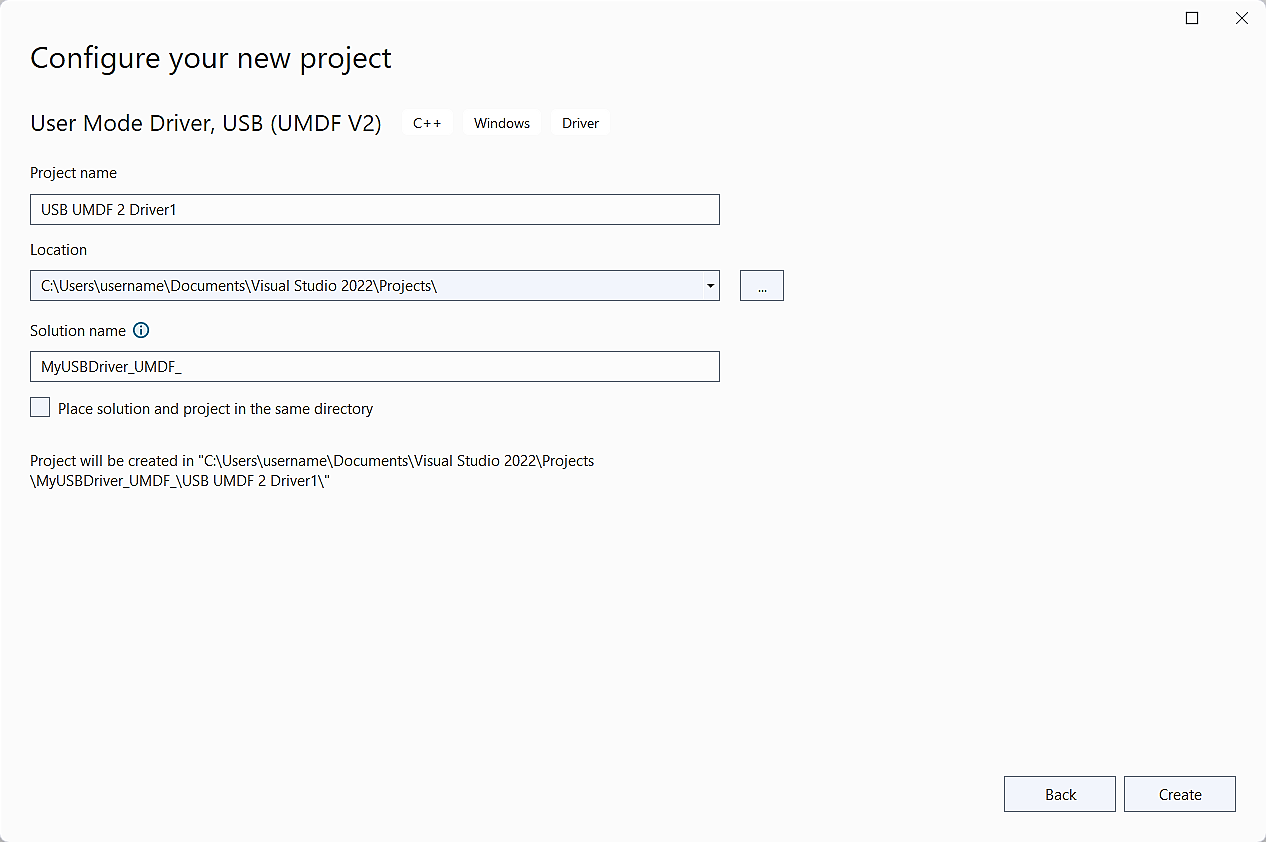
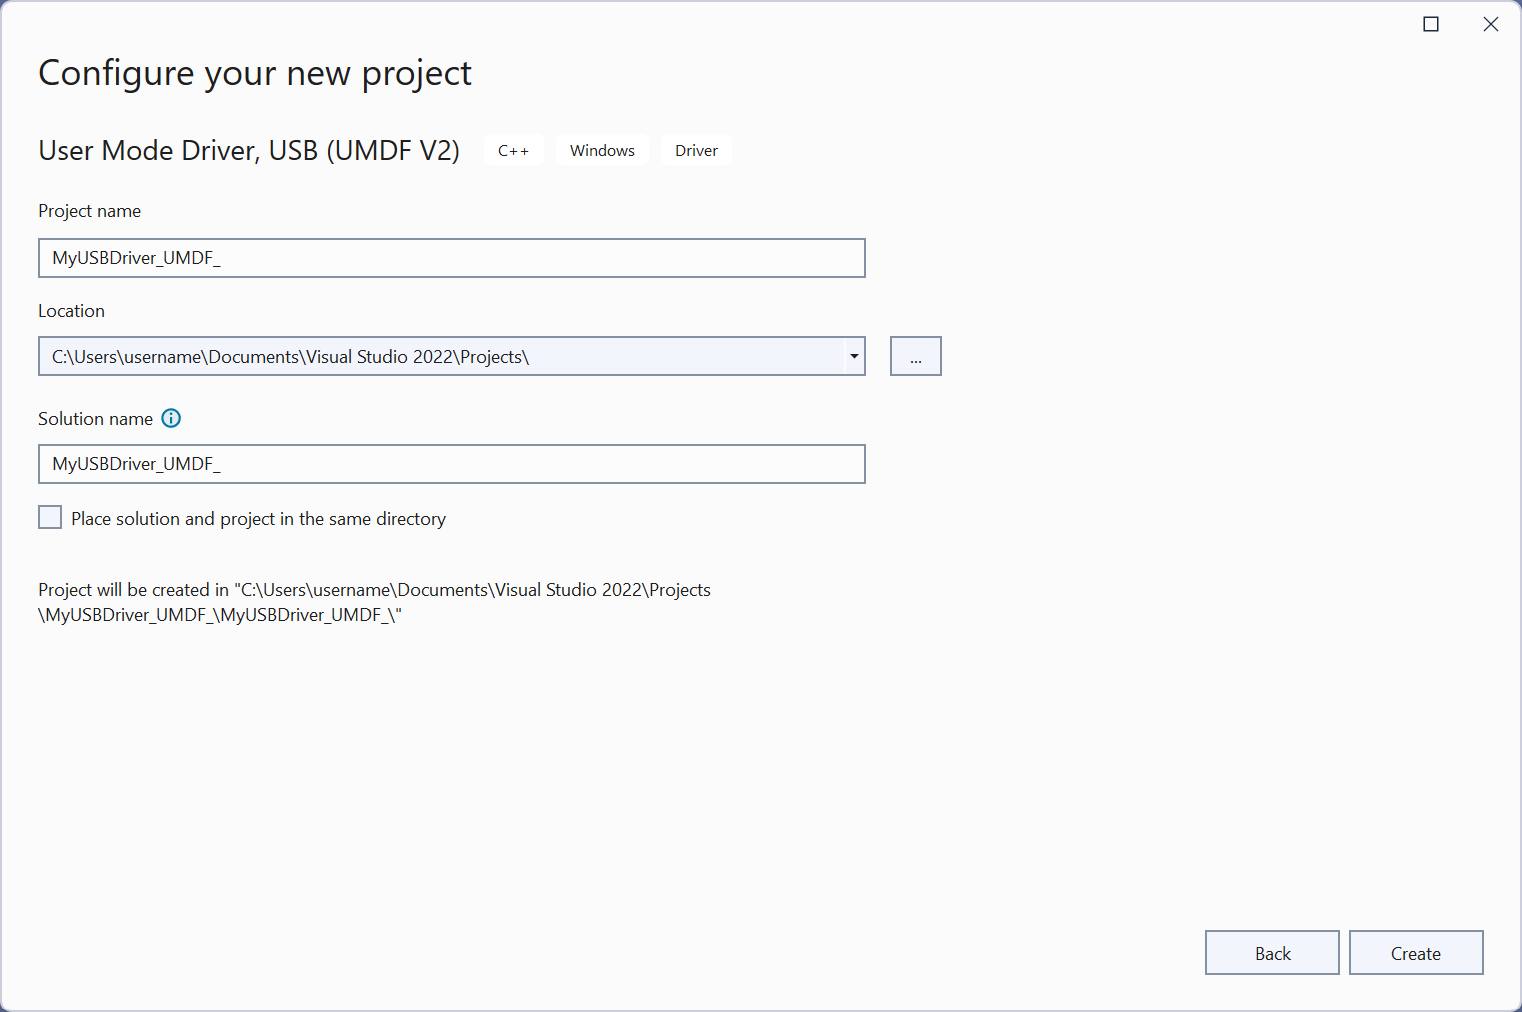
Updates

diff --git a/windows-driver-docs-pr/usbcon/implement-driver-entry-for-a-usb-driver--umdf-.md b/windows-driver-docs-pr/usbcon/implement-driver-entry-for-a-usb-driver--umdf-.md
@@ -1,7 +1,7 @@
 ---
 title: How to write your first USB client driver (UMDF)
 description: Use the USB User Mode Driver template provided with Microsoft Visual Studio to write a UMDF client driver.
-ms.date: 10/17/2023
+ms.date: 10/19/2023
 ---
 
 # How to write your first USB client driver (UMDF)
@@ -51,11 +51,13 @@ If you're new to USB driver development, use the [OSR USB FX2 learning kit](http
 
 ## Instructions
 
-### Step 1: Generate the UMDF driver code by using the Visual Studio 2022 USB driver template
+Follow these steps to create a USB UMDF V2 driver by using the Visual Studio 2022 driver template.
 
-For instructions about generating UMDF driver code, see [Writing a UMDF driver based on a template](../gettingstarted/writing-a-umdf-driver-based-on-a-template.md).
+### Step 1: Generate the driver code
 
-### For USB-specific code, select the following options in Visual Studio 2019
+For details about writing UMDF driver code, see [Writing a UMDF driver based on a template](../gettingstarted/writing-a-umdf-driver-based-on-a-template.md).
+
+### For USB-specific code, select the following options in Visual Studio 2022
 
 1. In the **New Project** dialog box, in the search box at the top, type **USB.**
 1. In the middle pane, select **User Mode Driver, USB (UMDF V2)**.
@@ -78,47 +80,23 @@ This article assumes that the name of the project is "MyUSBDriver_UMDF_". It con
 | Trace.h | Defines the device interface GUID. It also declares tracing functions and macros. |
 | *\<Project name>*.inf | INF file that is required to install the client driver on the target computer. |
 
-### Step 2: Modify the INF file to add information about your device
+### Step 2: Add information about your device
 
-Before you build the driver, you must modify the template INF file with information about your device, specifically the hardware ID string.
+Before you build the driver, you must add information about your device, specifically the hardware ID. To provide the hardware ID:
 
-### To provide the hardware ID string
+1. In the **Solution Explorer** window, right-click **MyUSBDriver_UMDF_**, and choose **Properties**.
+1. In the **MyUSBDriver_UMDF_ Property Pages** window, go to **Configuration Properties > Driver Install > Deployment**, as shown here.
+    :::image type="content" source="images/umdf-driver-property-pages.png" alt-text="Screenshot of the Visual Studio 2022 property pages window.":::
+1. Check **Remove previous driver versions before deployment**.
+1. For **Target Device Name**, select the name of the computer that you configured for testing and debugging.
+1. Select **Hardware ID Driver Update**, and enter the hardware ID for your driver. In this exercise, the hardware ID is *Root\MyUSBDriver_UMDF_*. Select **OK**.
 
-1. Attach your USB device to your host computer and let Windows enumerate the device.
-1. Open **Device Manager** and open properties for your device.
-1. On the **Details** tab, select **Hardware Ids** under **Property.**
+> [!NOTE]
+> In this exercise, the hardware ID does not identify a real piece of hardware. It identifies an imaginary device that will be given a place in the device tree as a child of the root node. For real hardware, do not select **Hardware ID Driver Update**. Instead, select **Install and Verify**. You can see the hardware ID in your driver's information (INF) file. In the **Solution Explorer** window, go to **MyUSBDriver_UMDF_ > Driver Files**, and double-click MyUSBDriver_UMDF_.inf. The hardware ID is under [Standard.NT$ARCH$].
 
-    The hardware ID for the device is displayed in the list box. Right-click and copy the hardware ID string.
+All UMDF-based USB client drivers require two Microsoft-provided drivers, the reflector and WinUSB.
 
-1. In **Solution Explorer**, expand **Driver Files**, and open the INF.
-1. Replace the following your hardware ID string.
-
-    ```inf
-    [Standard.NT$ARCH$]
-    %DeviceName%=MyDevice_Install, USB\VID_vvvv&PID_pppp
-    ```
-
-Notice the **AddReg** entries in the driver's information (INF) file.
-
-```inf
-[CoInstallers_AddReg]
-HKR,,CoInstallers32,0x00010008,"WudfCoinstaller.dll"
-HKR,,CoInstallers32,0x00010008,"WudfUpdate_01011.dll"
-HKR,,CoInstallers32,0x00010008,"WdfCoInstaller01011.dll,WdfCoInstaller"
-HKR,,CoInstallers32,0x00010008,"WinUsbCoinstaller2.dll"
-```
-
-- WudfCoinstaller.dll (configuration co-installer)
-- WUDFUpdate_*\<version>*.dll (redistributable co-installer)
-- Wdfcoinstaller *\<version>*.dll (co-installers for KMDF)
-- Winusbcoinstaller2.dll ((co-installers for Winusb.sys)
-- MyUSBDriver_UMDF_.dll (client driver module)
-
-If your INF AddReg directive references the UMDF redistributable co-installer (WUDFUpdate_*\<version>*.dll), you must not make a reference to the configuration co-installer (WUDFCoInstaller.dll). Referencing both co-installers in the INF leads to installation errors.
-
-All UMDF-based USB client drivers require two Microsoft-provided drivers: the reflector and WinUSB.
-
-- Reflector—If your driver gets loaded successfully, the reflector is loaded as the top-most driver in the kernel-mode stack. The reflector must be the top driver in the kernel mode stack. To meet this requirement, the template's INF file specifies the reflector as a service and WinUSB as a lower-filter driver in the INF:
+- **Reflector**: If your driver gets loaded successfully, the reflector is loaded as the top-most driver in the kernel-mode stack. The reflector must be the top driver in the kernel mode stack. To meet this requirement, the template's INF file specifies the reflector as a service and WinUSB as a lower-filter driver in the INF:
 
     ```inf
     [MyDevice_Install.NT.Services]
@@ -126,17 +104,17 @@ All UMDF-based USB client drivers require two Microsoft-provided drivers: the re
     AddService=WinUsb,0x000001f8,WinUsb_ServiceInstall  ; this service is installed because its a filter.
     ```
 
-- WinUSB—The installation package must contain coinstallers for Winusb.sys because for the client driver, WinUSB is the gateway to the kernel-mode USB driver stack. Another component that gets loaded is a user-mode DLL, named WinUsb.dll, in the client driver's host process (Wudfhost.exe). Winusb.dll exposes [WinUSB Functions](using-winusb-api-to-communicate-with-a-usb-device.md) that simplify the communication process between the client driver and WinUSB.
+- **WinUSB**: The installation package must contain coinstallers for Winusb.sys because for the client driver, WinUSB is the gateway to the kernel-mode USB driver stack. Another component that gets loaded is a user-mode DLL, named WinUsb.dll, in the client driver's host process (Wudfhost.exe). Winusb.dll exposes [WinUSB Functions](using-winusb-api-to-communicate-with-a-usb-device.md) that simplify the communication process between the client driver and WinUSB.
 
 ### Step 3: Build the USB client driver code
 
 To build your driver:
 
-1. Open the driver project or solution in Visual Studio 2019.
+1. Open the driver project or solution in Visual Studio 2022.
 1. Right-click the solution in the **Solution Explorer** and select **Configuration Manager**.
-1. From the **Configuration Manager**, select your **Active Solution Configuration** (for example, **Debug** or **Release**) and your **Active Solution Platform** (for example, **Win32**) that correspond to the type of build you're interested in.
+1. From the **Configuration Manager**, select your **Active Solution Configuration** (for example, **Debug** or **Release**) and your **Active Solution Platform** (for example, **x64**) that correspond to the type of build you're interested in.
 1. Verify that your device interface GUID is accurate throughout the project.
-    - The device interface GUID is defined in Trace.h and is referenced from `MyUSBDriverUMDFCreateDevice` in Device.c. When you create your project with the name "MyUSBDriver_UMDF_", Visual Studio 2019 defines the device interface GUID with the name `GUID_DEVINTERFACE_MyUSBDriver_UMDF_` but calls `WdfDeviceCreateDeviceInterface` with the incorrect parameter "GUID_DEVINTERFACE_MyUSBDriverUMDF". Replace the incorrect parameter with the name defined in Trace.h to ensure that the driver builds properly.
+    - The device interface GUID is defined in Trace.h and is referenced from `MyUSBDriverUMDFCreateDevice` in Device.c. When you create your project with the name "MyUSBDriver_UMDF_", Visual Studio 2022 defines the device interface GUID with the name `GUID_DEVINTERFACE_MyUSBDriver_UMDF_` but calls `WdfDeviceCreateDeviceInterface` with the incorrect parameter `&GUID_DEVINTERFACE_MyUSBDriverUMDF`. Replace the incorrect parameter with the name defined in Trace.h to ensure that the driver builds properly.
 1. From the **Build** menu, select **Build Solution**.
 
 For more information, see [Building a Driver](../develop/building-a-driver.md).
@@ -153,7 +131,7 @@ The template code contains several trace messages (TraceEvents) that can help yo
 
 1. Create trace message format (TMF) files by extracting trace message formatting instructions from the PDB symbol file.
 
-   You can use Tracepdb.exe to create TMF files. The tool is located in the *&lt;install folder&gt;*Windows Kits\\10\\bin\\*&lt;architecture&gt;* folder of the WDK. The following command creates TMF files for the driver project.
+   You can use Tracepdb.exe to create TMF files. The tool is located in the *\<install folder>*Windows Kits\\10\\bin\\*\<architecture>* folder of the WDK. The following command creates TMF files for the driver project.
 
    ```console
    tracepdb -f <PDBFiles> -p <TMFDirectory>
@@ -168,7 +146,7 @@ The template code contains several trace messages (TraceEvents) that can help yo
    ```console
    .load Wmitrace
    .chain
-   !wmitrace.searchpath +***&lt;TMF file location&gt;
+   !wmitrace.searchpath + <TMF file location>
    ```
 
 These commands:
@@ -185,7 +163,7 @@ Trace Format search path is: 'C:\Program Files (x86)\Microsoft Visual Studio 14.
 
 ### To configure your target computer for WPP tracing
 
-1. Make sure you have the Tracelog tool on your target computer. The tool is located in the *&lt;install_folder&gt;*Windows Kits\\10\\Tools\\*&lt;arch&gt;* folder of the WDK. For more information, see **[Tracelog Command Syntax](../devtest/tracelog-command-syntax.md)**.
+1. Make sure you have the Tracelog tool on your target computer. The tool is located in the *\<install_folder>*Windows Kits\\10\\Tools\\*\<arch>* folder of the WDK. For more information, see **[Tracelog Command Syntax](../devtest/tracelog-command-syntax.md)**.
 1. Open a **Command Window** and run as administrator.
 1. Type the following command:
 
@@ -195,7 +173,7 @@ Trace Format search path is: 'C:\Program Files (x86)\Microsoft Visual Studio 14.
 
 The command starts a trace session named MyTrace.
 
-The **guid** argument specifies the GUID of the trace provider, which is the client driver. You can get the GUID from Trace.h in the Visual Studio 2019 project. As another option, you can type the following command and specify the GUID in a .guid file. The file contains the GUID in hyphen format:
+The **guid** argument specifies the GUID of the trace provider, which is the client driver. You can get the GUID from Trace.h in the Visual Studio 2022 project. As another option, you can type the following command and specify the GUID in a .guid file. The file contains the GUID in hyphen format:
 
 ```console
 tracelog -start MyTrace -guid c:\\drivers\\Provider.guid -flag 0xFFFF -level 7-rt -kd
@@ -210,7 +188,7 @@ tracelog -stop MyTrace
 ### Step 6: Deploy the driver on the target computer
 
 1. In the **Solution Explorer** window, right-click the *\<project name>*, and choose **Properties**.
-1. In the left pane, navigate to **Configuration Properties &gt; Driver Install &gt; Deployment**.
+1. In the left pane, navigate to **Configuration Properties > Driver Install > Deployment**.
 1. Check Enable deployment, and check Import into driver store.
 1. For **Target Device Name**, specify the name of the target computer.
 1. Select **Install/Reinstall and Verify**.
